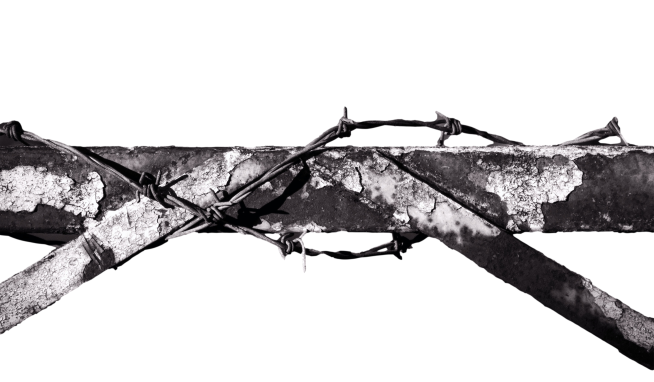
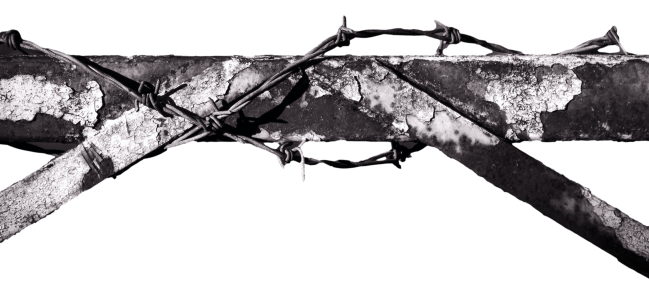
wanted modif

diff --git a/public/assets/css/style.css b/public/assets/css/style.css
@@ -66,10 +66,9 @@ body{
 /* HOME PAGE START*/
 .barbele {
     width: 100%;
-    height: 60%;
-    opacity: 50%;
+    height: 20%;
+    opacity: 80%;
     filter: sepia(80%);
-    margin-top: -10em;
 }
 /* HEADER END*/
 
@@ -80,7 +79,7 @@ body{
     width: 30%;
     height: 30%;
     display: flex;
-    margin: 10em auto 0 auto;
+    margin: 10em auto 0 5em;
     box-shadow: 15px 15px 12px black;
 }
 
@@ -102,13 +101,20 @@ body{
 
 /* WANTED START */
 
-.imgLuffy{
-    margin: 70px 50px 0px 100px;
+
+.imgLuffy {
+    margin: 70px 50px 50px 100px;
     box-shadow: 15px 15px 12px black;
+}
+.tampon {
+    margin: 20px 200px -600px 150px;
+    position: relative;
+    width: 400px;
+    transform: rotate(-10deg);
 }
 
 .city-form{
-    margin: auto;
+    margin: auto auto 2em auto;
     width: 30%;
     font-family: var(--title-font);
 }
@@ -118,6 +124,7 @@ body{
     color: black;
     font-size: 3em;
     margin: 2em 5em 0 5em;
+    text-align: center;
 }
 
 .pictures {
@@ -135,7 +142,7 @@ body{
 .texte {
     width: 100%;
     height: auto;
-    background-image: url("/assets/images/feuille de parchemin.png");
+    background-image: url('../images/feuille-de-parchemin.png');
     background-size:90% 115%;
     background-repeat: no-repeat;
     background-position: right;
@@ -152,6 +159,10 @@ body{
     margin-right: 4em;
 }
 
+.form {
+    display: inline-block;
+    margin-left: 10em;
+}
 .btn-submit {
     background-color: black;
     border-color : black;
@@ -164,4 +175,16 @@ body{
 
 /* WANTED END */
 
+/* MAP START*/
+
+#map {
+    width: 50%;
+    margin: auto;
+    border: 2px solid black;
+    filter: sepia(30%);
+    border-radius: 25px;
+    box-shadow: 15px 15px 12px black;
+}
+
+/*MAP END*/
 
